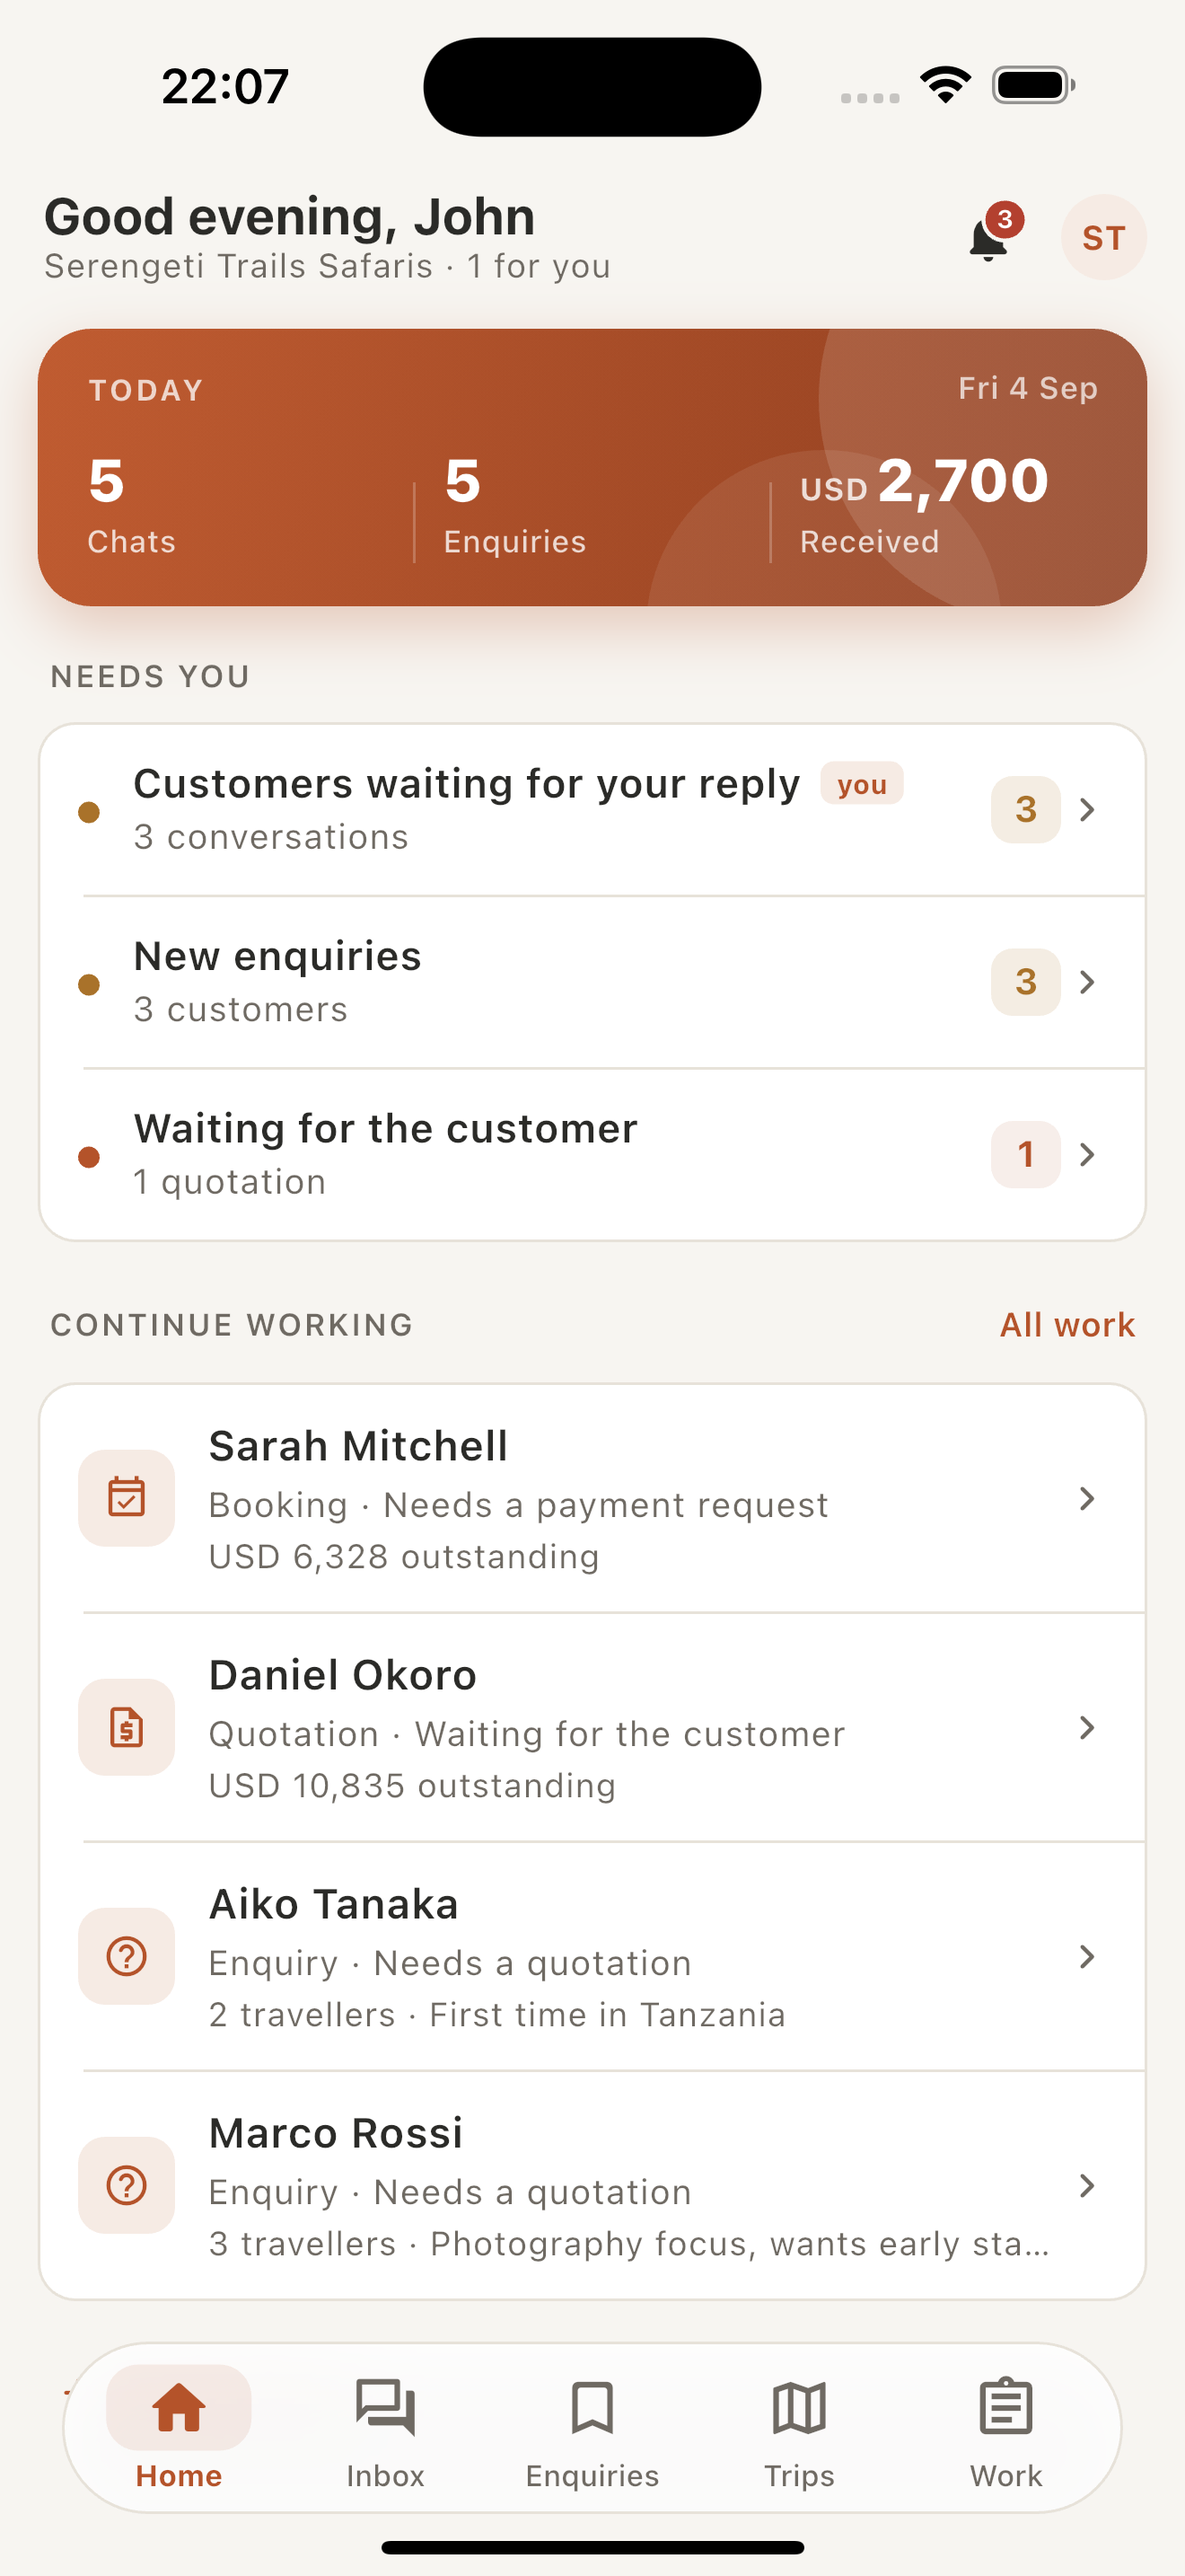
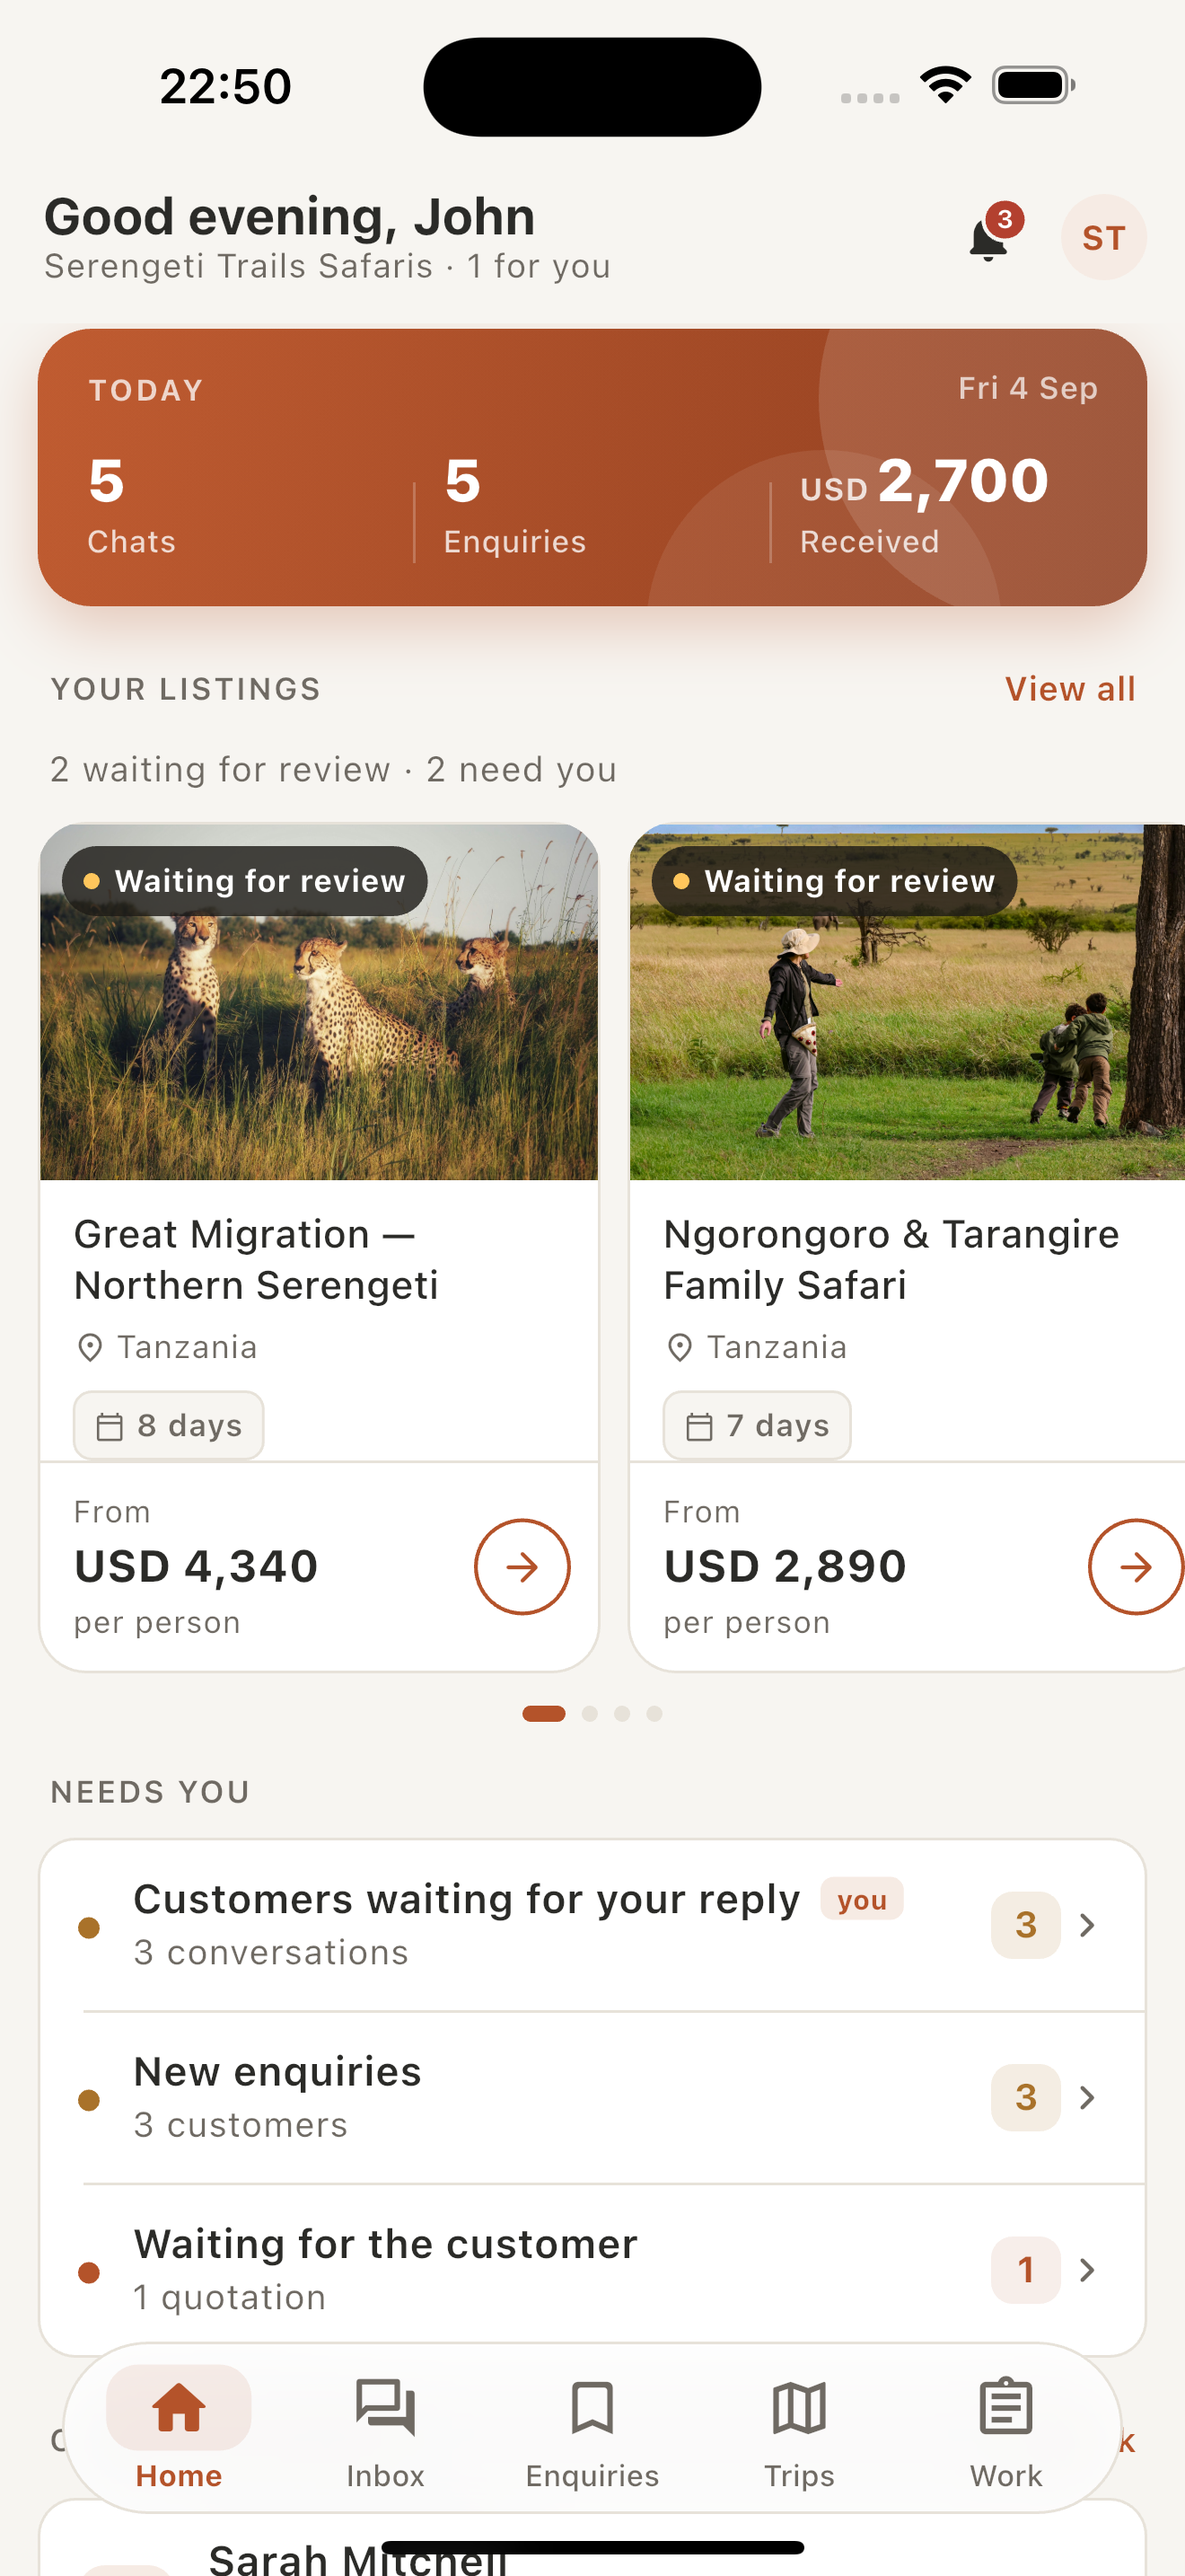
Cap the pushed routes too, and shoot the iPad and dark sets
The shell's width cap only reaches the tabs. A thread, a trip, the listings and
the account page are PUSHED routes, so on an iPad they were still running the
full 1024 — a two-word WhatsApp reply became a line of text a foot wide, with
the composer stretched under it. Each of those four now carries the same cap.
The chat ground stays full-bleed; it is the content that is constrained, not
the Scaffold.

Also adds the 13-inch iPad screenshot set, which is not optional while
TARGETED_DEVICE_FAMILY is "1,2", and two dark-mode iPhone shots.

Note for anyone editing this repo: do NOT run `dart format` over lib/. The
project is written at ~120 columns and there is no formatter config, so the
default 80 reformats 23 files and buries the real change. Match the surrounding
style by hand.

diff --git a/lib/screens/thread_screen.dart b/lib/screens/thread_screen.dart
@@ -4,6 +4,7 @@ import 'package:flutter/material.dart';
 import 'package:intl/intl.dart';
 
 import '../core/api.dart';
+import '../core/responsive.dart';
 import '../core/theme.dart';
 import '../widgets/skeleton.dart';
 
@@ -152,63 +153,71 @@ class _ThreadScreenState extends State<ThreadScreen> {
       ),
       // The composer floats over the thread rather than sitting in a bar below it,
       // so the conversation runs the full height of the screen and blurs beneath it.
-      body: Stack(
-        children: [
-          Column(
-            children: [
-              if (assignedToMe)
-                Container(
-                  width: double.infinity,
-                  color: dark ? Brand.darkSurface : Brand.surface,
-                  padding: const EdgeInsets.symmetric(horizontal: 16, vertical: 8),
-                  child: Text(
-                    'Assigned to you',
-                    style: Theme.of(context).textTheme.bodySmall?.copyWith(fontWeight: FontWeight.w600),
+      //
+      // Capped here rather than in the shell: a thread is a PUSHED route, so it
+      // never passes through the shell's cap. Left full width on an iPad the
+      // bubbles ran the whole 1024 and a two-word reply became a line of text a
+      // foot long. The chat ground stays full-bleed — this constrains what is
+      // drawn on it, not the Scaffold.
+      body: ContentWidth(
+        child: Stack(
+          children: [
+            Column(
+              children: [
+                if (assignedToMe)
+                  Container(
+                    width: double.infinity,
+                    color: dark ? Brand.darkSurface : Brand.surface,
+                    padding: const EdgeInsets.symmetric(horizontal: 16, vertical: 8),
+                    child: Text(
+                      'Assigned to you',
+                      style: Theme.of(context).textTheme.bodySmall?.copyWith(fontWeight: FontWeight.w600),
+                    ),
                   ),
-                ),
-              Expanded(
-                child: _loading
-                    ? const SkeletonThread()
-                    : _error != null
-                    ? Center(
-                        child: Padding(
-                          padding: const EdgeInsets.all(28),
-                          child: Text(
-                            _error!,
-                            textAlign: TextAlign.center,
-                            style: Theme.of(context).textTheme.bodyMedium,
+                Expanded(
+                  child: _loading
+                      ? const SkeletonThread()
+                      : _error != null
+                      ? Center(
+                          child: Padding(
+                            padding: const EdgeInsets.all(28),
+                            child: Text(
+                              _error!,
+                              textAlign: TextAlign.center,
+                              style: Theme.of(context).textTheme.bodyMedium,
+                            ),
+                          ),
+                        )
+                      : RefreshIndicator(
+                          onRefresh: _load,
+                          child: ListView.builder(
+                            controller: _scroll,
+                            physics: const AlwaysScrollableScrollPhysics(),
+                            // Room for the floating composer, measured against its
+                            // real height rather than guessed: field + padding +
+                            // the home indicator underneath it.
+                            padding: const EdgeInsets.fromLTRB(12, 14, 12, 124),
+                            itemCount: _messages.length,
+                            itemBuilder: (context, i) => _Bubble(message: _messages[i]),
                           ),
                         ),
-                      )
-                    : RefreshIndicator(
-                        onRefresh: _load,
-                        child: ListView.builder(
-                          controller: _scroll,
-                          physics: const AlwaysScrollableScrollPhysics(),
-                          // Room for the floating composer, measured against its
-                          // real height rather than guessed: field + padding +
-                          // the home indicator underneath it.
-                          padding: const EdgeInsets.fromLTRB(12, 14, 12, 124),
-                          itemCount: _messages.length,
-                          itemBuilder: (context, i) => _Bubble(message: _messages[i]),
-                        ),
-                      ),
-              ),
-            ],
-          ),
-          Positioned(
-            left: 0,
-            right: 0,
-            bottom: 0,
-            child: _Composer(
-              controller: _composer,
-              enabled: canSend && !_sending,
-              sending: _sending,
-              onSend: _send,
-              disabledHint: canSend ? null : 'You do not have permission to send messages',
+                ),
+              ],
             ),
-          ),
-        ],
+            Positioned(
+              left: 0,
+              right: 0,
+              bottom: 0,
+              child: _Composer(
+                controller: _composer,
+                enabled: canSend && !_sending,
+                sending: _sending,
+                onSend: _send,
+                disabledHint: canSend ? null : 'You do not have permission to send messages',
+              ),
+            ),
+          ],
+        ),
       ),
     );
   }

diff --git a/lib/screens/trip_screen.dart b/lib/screens/trip_screen.dart
@@ -4,6 +4,7 @@ import 'package:flutter/material.dart';
 
 import '../core/api.dart';
 import '../core/motion.dart';
+import '../core/responsive.dart';
 import '../core/theme.dart';
 import '../widgets/primitives.dart';
 import '../widgets/skeleton.dart';
@@ -438,26 +439,29 @@ class _TripScreenState extends State<TripScreen> {
               ),
           ],
         ),
+        // A pushed route, so the shell's cap never reaches it — see ThreadScreen.
         body: SafeArea(
           bottom: false,
-          child: _loading
-              ? const SkeletonRows(rows: 6, disc: false)
-              : _error != null
-              ? TeachingEmptyState(
-                  icon: Icons.cloud_off_rounded,
-                  title: 'Could not load this trip',
-                  body: _error!,
-                  actionLabel: 'Try again',
-                  onAction: () {
-                    setState(() {
-                      _loading = true;
-                      _error = null;
-                    });
-                    _load();
-                  },
-                )
-              : _body(context),
-        ),
+          child: ContentWidth(
+            child: _loading
+                ? const SkeletonRows(rows: 6, disc: false)
+                : _error != null
+                ? TeachingEmptyState(
+                    icon: Icons.cloud_off_rounded,
+                    title: 'Could not load this trip',
+                    body: _error!,
+                    actionLabel: 'Try again',
+                    onAction: () {
+                      setState(() {
+                        _loading = true;
+                        _error = null;
+                      });
+                      _load();
+                    },
+                  )
+                : _body(context),
+          ),
+          )
       ),
     );
   }

diff --git a/lib/main.dart b/lib/main.dart
@@ -219,9 +219,12 @@ class _ShellState extends State<Shell> {
             decoration: appBackground(context),
             child: SafeArea(
               bottom: false,
-              child: Builder(
-                builder: (routeContext) => ListingsScreen(
-                  onBack: () => Navigator.of(routeContext).pop(),
+              // A pushed route: the shell's cap does not reach it.
+              child: ContentWidth(
+                child: Builder(
+                  builder: (routeContext) => ListingsScreen(
+                    onBack: () => Navigator.of(routeContext).pop(),
+                  ),
                 ),
               ),
             ),
@@ -261,10 +264,13 @@ class _ShellState extends State<Shell> {
             decoration: appBackground(context),
             child: SafeArea(
               bottom: false,
-              child: Builder(
-                builder: (routeContext) => MoreScreen(
-                  onSignedOut: _signedOut,
-                  onBack: () => Navigator.of(routeContext).pop(),
+              // A pushed route: the shell's cap does not reach it.
+              child: ContentWidth(
+                child: Builder(
+                  builder: (routeContext) => MoreScreen(
+                    onSignedOut: _signedOut,
+                    onBack: () => Navigator.of(routeContext).pop(),
+                  ),
                 ),
               ),
             ),

diff --git a/store/README.md b/store/README.md
@@ -10,8 +10,10 @@ key on the build machine, and the console needs an interactive sign-in.
 ```
 store/
   README.md            this file — every field, ready to paste
+  sample-images/       drop tour photos here (see its own README)
   screenshots/
-    6.9-inch/          1320 × 2868 PNGs, uploaded as they are
+    6.9-inch/          1320 × 2868 — iPhone, required
+    13-inch/           2064 × 2752 — iPad, required while the app ships for iPad
 ```
 
 ---
@@ -169,22 +171,39 @@ and no proprietary cryptography. Apple will stop asking on every upload.
 
 ## Screenshots
 
-Files go in `screenshots/6.9-inch/`, numbered in upload order.
+Numbered in upload order. Both sets are captured and sized correctly; upload
+them as they are, no resizing.
 
-**Size: 1320 × 2868 portrait**, which is the iPhone 16 Pro Max. That is the
-6.9-inch slot, and it is the one Apple actually requires — a set at that size
-covers the smaller iPhones automatically. Capture on a 16 Pro Max simulator and
-the pixels come out right with no resizing; anything else (the 16 Pro is
-1206 × 2622) is not an accepted size and will be rejected on upload.
+| Set | Size | Device | Why |
+| --- | --- | --- | --- |
+| `6.9-inch/` | 1320 × 2868 | iPhone 16 Pro Max | The required iPhone slot. A set here covers the smaller iPhones automatically. |
+| `13-inch/` | 2064 × 2752 | iPad Pro 13-inch (M4) | **Required**, because the app ships with iPad support — see below. |
 
-The four to shoot, in order:
+Capture on those two simulators and the pixels come out exactly right. Anything
+else is refused on upload: the iPhone 16 Pro, for instance, is 1206 × 2622,
+which is not an accepted size.
 
-1. **Home** — the day at a glance: the Today card, what needs a reply, what to
-   continue
+The shots, in order:
+
+1. **Home** — the day at a glance: the Today card, the listings, what needs a
+   reply, what to continue
 2. **Inbox** — the shared WhatsApp inbox, threads with real previews and unread
    counts
 3. **A conversation** — one thread open, messages both ways
 4. **Trip** — the departure with driver, guide, vehicle and lodges assigned
+5. **Home, dark** *(iPhone only)* — the same screen in dark mode
+6. **A conversation, dark** *(iPhone only)*
+
+### The iPad set is not optional
+
+`TARGETED_DEVICE_FAMILY` is `"1,2"` — Flutter's default, not a decision anyone
+took — so the app is submitted as a universal build and App Store Connect will
+demand iPad screenshots. It also means Apple reviews the iPad experience, which
+is why `lib/core/responsive.dart` exists: on a 13-inch screen the phone layout
+was being stretched to fill it, and that is a Guideline 4.0 rejection.
+
+If iPad support is ever dropped, set the family to `"1"` and this whole set goes
+away with it.
 
 ### Two things that will spoil the shoot
 
